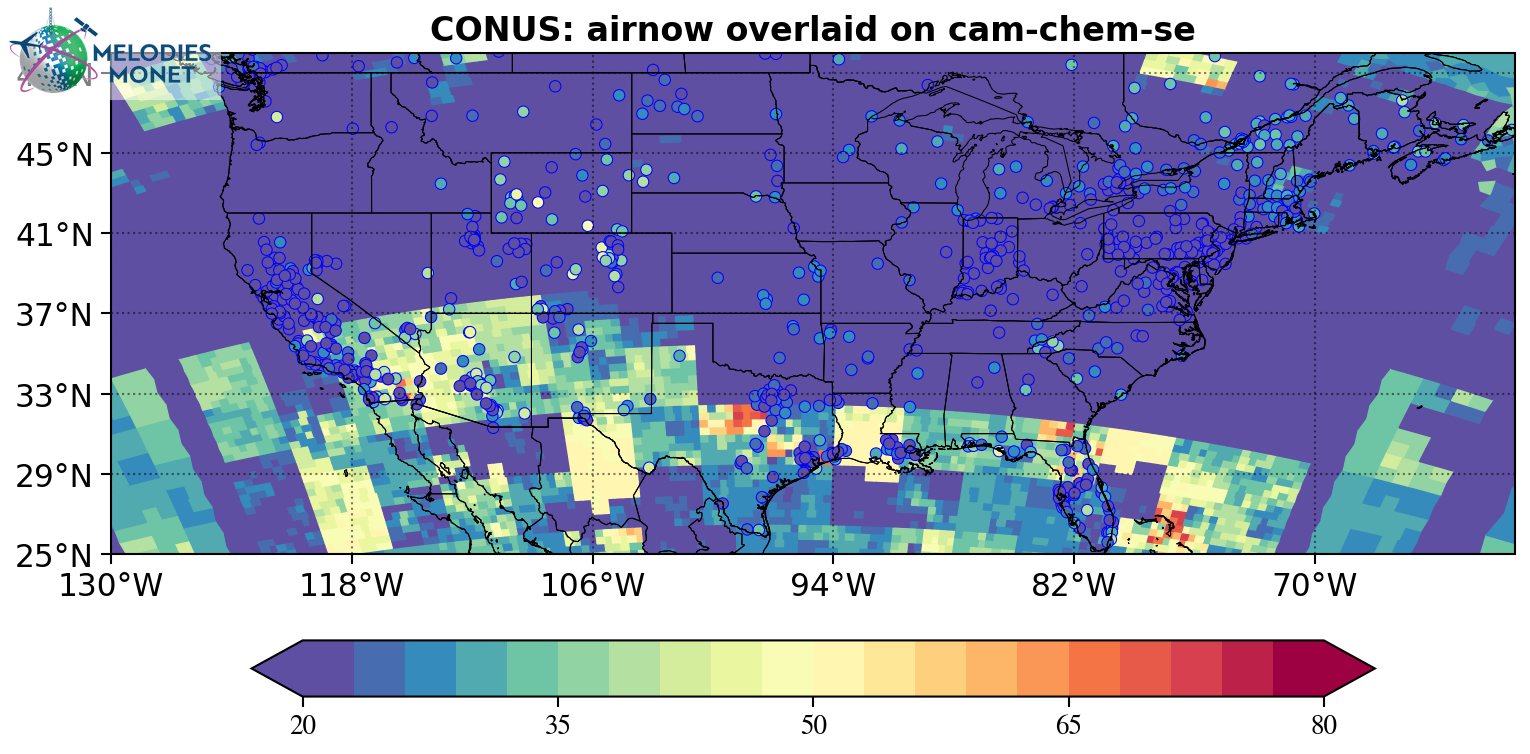
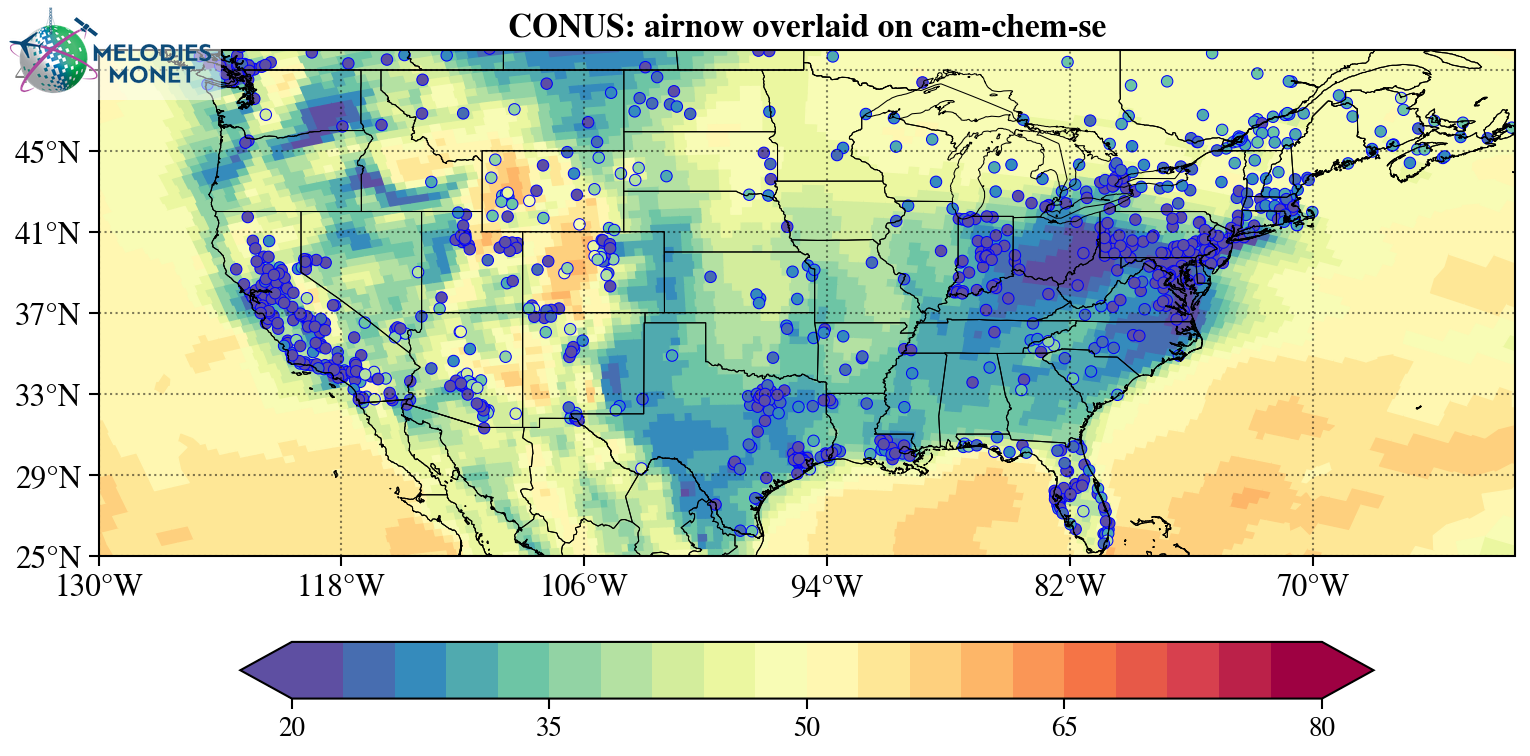
cesm-se spatial overlay works

diff --git a/melodies_monet/plots/Plot_2D.py b/melodies_monet/plots/Plot_2D.py
@@ -38,39 +38,47 @@ class Plot_2D(object):
         # ========================================================================
         # variable dimension check
         if (np.ndim(var) > 2) or (np.ndim(var) < 1):
-            raise ValueError( '"var" must be 1-D (SE) or 2-D (FV) array' )
-        
+            raise ValueError('"var" must be 1-D (SE) or 2-D (FV) array')
+
+        # make se model runs not run on predefined lat lon        
+        self.model_lat = None
+        self.model_lon = None
         # xarray, lon, and lat check
-        if type(var) in [ xr.core.dataset.Dataset, xr.core.dataarray.DataArray ]:
+        #if type(var) in [xr.core.dataset.Dataset, xr.core.dataarray.DataArray]:
+        if isinstance(var, (xr.Dataset, xr.DataArray)):
             if np.ndim(var) == 2: # FV results
                 self.model_type = 'FV'
                 if verbose:
-                    print( '"var" is a xarray variable, longitude and latitude values ' + \
+                    print('"var" is a xarray variable, longitude and latitude values ' + \
                            'are being automatically assigned by xarray dimension variables')
                 if lons is not None:
-                    print( 'Warning: "lons" is assigned but not used ' + \
+                    print('Warning: "lons" is assigned but not used ' + \
                            'because xarray itself has longitude values')
                 if lats is not None:
-                    print( 'Warning: "lats" is assigned but not used ' + \
+                    print('Warning: "lats" is assigned but not used ' + \
                            'because xarray itself has longitude values')                
                 self.var = np.copy( var.values )
                 self.lon = np.copy( var.lon.values )
                 self.lat = np.copy( var.lat.values )
             else: # SE results
                 self.model_type = 'SE'
-                self.var = np.copy( var.values )
+                self.var = np.copy(var.values)
+                self.model_lat = var.latitude.values if hasattr(var, "latitude") else None
+                self.model_lon = var.longitude.values if hasattr(var, "longitude") else None
+                print(f"MM SE coords available: {list(var.coords)}")
+                print(f"MM model_lat set: {self.model_lat is not None}, model_lon set: {self.model_lon is not None}")
         else:
             self.var = np.copy(var)
             if np.ndim(var) == 2: # FV results
                 self.model_type = 'FV'
                 if np.shape(lons) == ():
-                    raise ValueError( '"lons" must be provided for FV model output' )
+                    raise ValueError('"lons" must be provided for FV model output')
                 else:
-                    self.lon = np.copy( lons )
+                    self.lon = np.copy(lons)
                 if np.shape(lats) == ():
-                    raise ValueError( '"lats" must be provided for FV model output' )
+                    raise ValueError('"lats" must be provided for FV model output')
                 else:
-                    self.lat = np.copy( lats )
+                    self.lat = np.copy(lats)
             else: # SE results
                 self.model_type = 'SE'        
         
@@ -119,6 +127,10 @@ class Plot_2D(object):
                     print("Reading UXARRAY grid file:", grid_file)
                 try: 
                     uxgrid = ux.open_grid(grid_file)
+                    print(f"[Plot_2D SE] len(var)={len(self.var)} "
+                          f"uxgrid.n_node={uxgrid.n_node} "
+                          f"uxgrid.n_face={uxgrid.n_face} "
+                          f"face_node_conn.shape={uxgrid.face_node_connectivity.shape}")
 
                     # corner and center coords 
                     self.corner_lon = np.copy(uxgrid.node_lon.values)
@@ -144,6 +156,8 @@ class Plot_2D(object):
                                           "grid_center_lat": (["n_face"], self.center_lat)
                                          })
 
+                    #print(ds_scrip)
+
                 except ImportError:
                     raise ValueError('UXArray must be installed to use grid_file parameter')
                 except Exception as e:
@@ -163,7 +177,29 @@ class Plot_2D(object):
             self.center_lon = np.copy(ds_scrip.grid_center_lon.values)
             self.center_lat = np.copy(ds_scrip.grid_center_lat.values)
 
-            
+            # n_nodes; avg over the corner node values 
+            if len(self.var) != uxgrid.n_node:
+                print('made it here')
+                from scipy.spatial import cKDTree
+
+                if self.model_lat is None or self.model_lon is None:
+                    raise ValueError(
+                        "SE model data is missing 'latitude'/'longitude' coordinates"
+                        "needed to align ncol ordering with the grid file's nodes."
+                    )
+                    
+                mlon = np.where(self.model_lon > 180, self.model_lon - 360, self.model_lon)
+                flon = np.where(self.center_lon > 180, self.center_lon - 360, self.center_lon)
+
+                tree = cKDTree(np.column_stack([flon, self.center_lat]))
+                _, face_for_ncol = tree.query(np.column_stack([mlon, self.model_lat]))
+                face_sum = np.zeros(uxgrid.n_face)
+                face_count = np.zeros(uxgrid.n_face)
+                np.add.at(face_sum, face_for_ncol, self.var)
+                np.add.at(face_count, face_for_ncol, 1)
+                face_var = np.where(face_count > 0, face_sum / np.maximum(face_count, 1), np.nan)
+                self.var = face_var
+
         # Color map check
         if cmap is None:
             if diff:

diff --git a/melodies_monet/driver/_model.py b/melodies_monet/driver/_model.py
@@ -283,7 +283,9 @@ class model:
                 self.obj.attrs['mio_grid_file'] = self.grid_file
             if hasattr(self, "scrip_file") and self.scrip_file:
                 self.obj.attrs['mio_scrip_file'] = self.scrip_file
-                
+            
+            self.obj.attrs['mio_has_unstructured_grid'] = True
+
         elif "camx" in self.model.lower():
             self.mod_kwargs.update({"var_list": list_input_var})
             self.mod_kwargs.update(

diff --git a/melodies_monet/driver/_analysis.py b/melodies_monet/driver/_analysis.py
@@ -2949,6 +2949,9 @@ class analysis:
                                     vmodel, domain_type, domain_name, domain_info
                                 )
 
+                            # enable plotting to see unstrucutred grids
+                            vmodel.attrs.update(self.models[p.model].obj.attrs)
+                            
                             # Determine proj to use for spatial plots
                             proj = splots.map_projection(self.models[p.model])
                             # p_label needs to be added to the outname for this plot